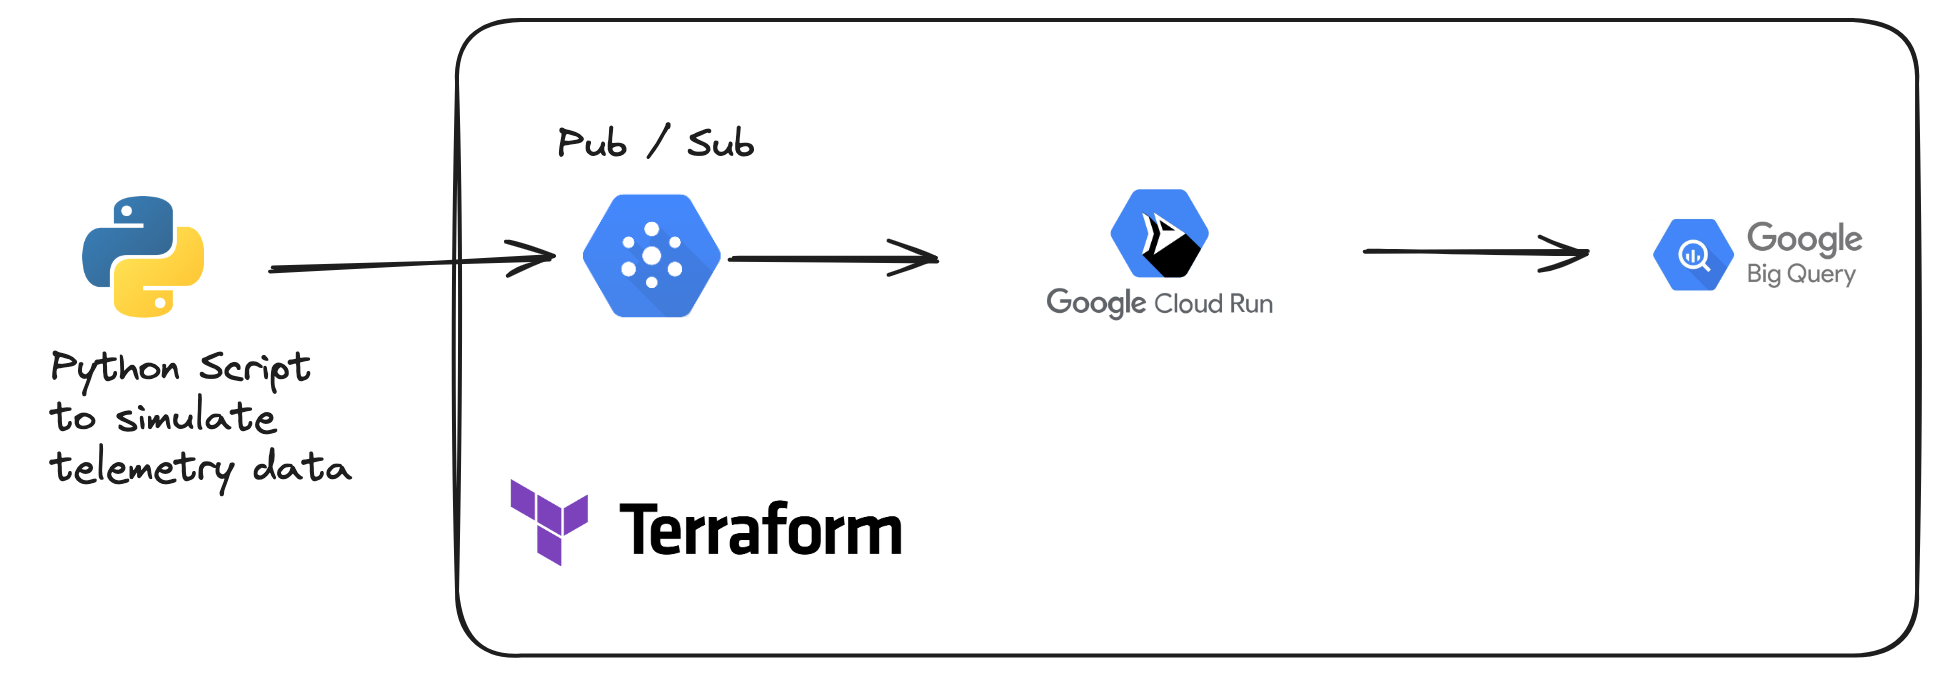
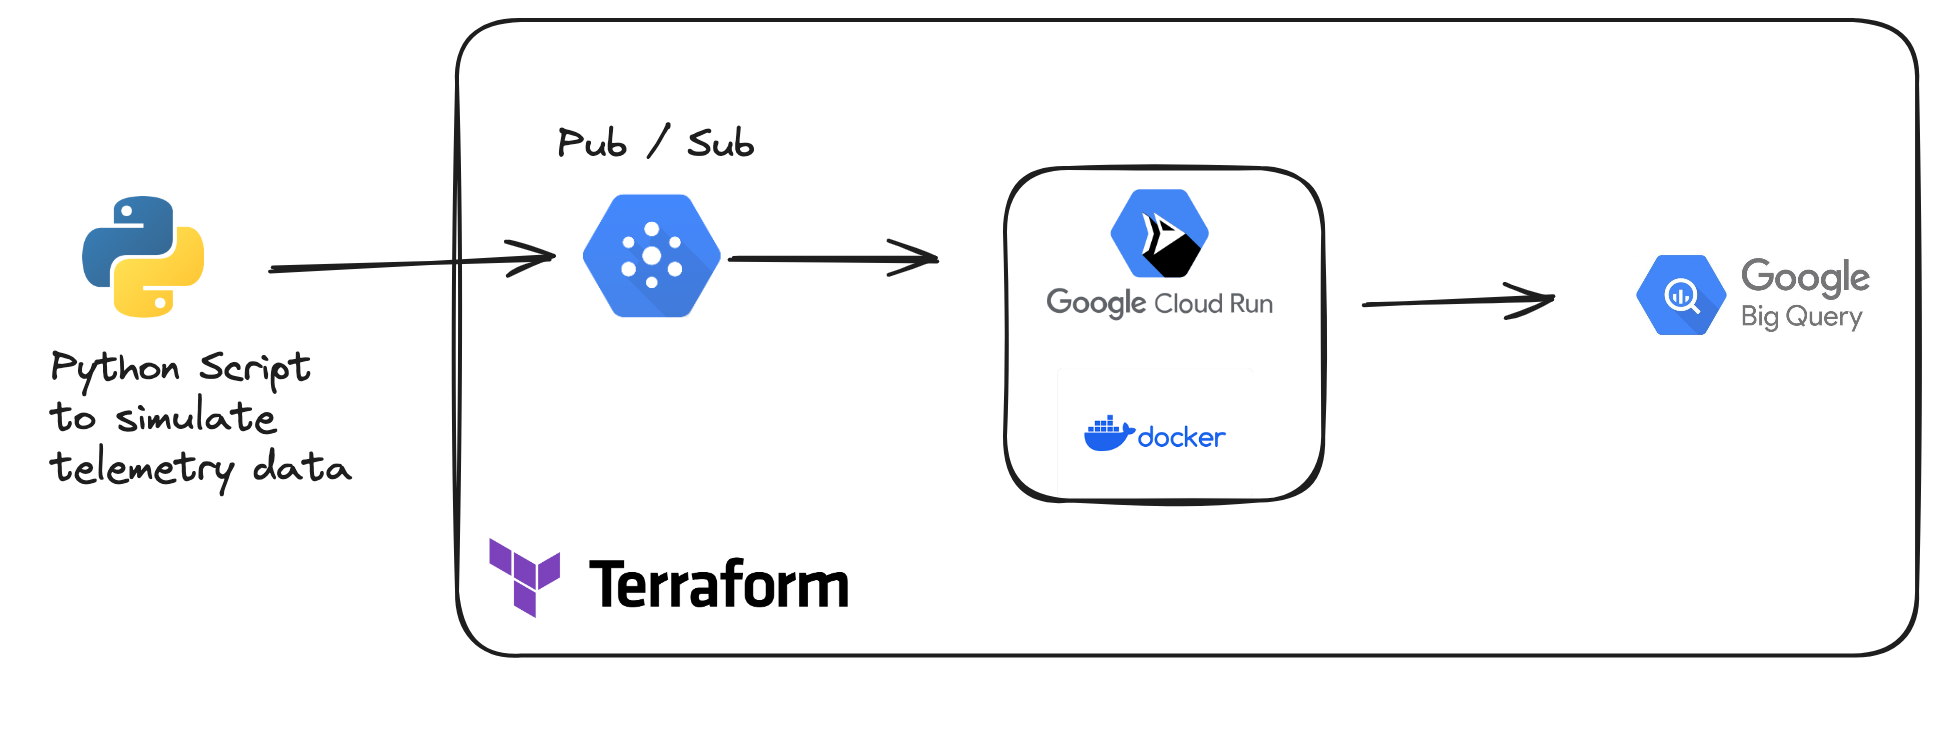
readme updates

diff --git a/README.md b/README.md
@@ -3,7 +3,7 @@ An ETL project using GCP (Pub/Sub, Cloud Run, and Bigquery)  to stream simulated
 
 ## Architecture
 
-This pipeline starts with a pub/sub topic and push subsricption which pushes messages to a container running on cloud run which performs a simple transformation.  A set up like this is good for when you need to stream data, and only perform simple transformations eg data standardization, or deriving a column.  It is not suitable for more complicated transformations involving multiple rows or aggregations.
+This pipeline starts with a pub/sub topic and push subsricption which pushes messages to an application running on a Docker container in cloud run which performs a simple transformation.  A set up like this is good for when you need to stream data, and only perform simple transformations eg data standardization, or deriving a column.  It is not suitable for more complicated transformations involving multiple rows or aggregations.
 
 ![Data flow diagram](https://github.com/Kaizen91/gcp-stream/blob/main/images/dataflow-gcp-stream-cloud-run.png)
 
